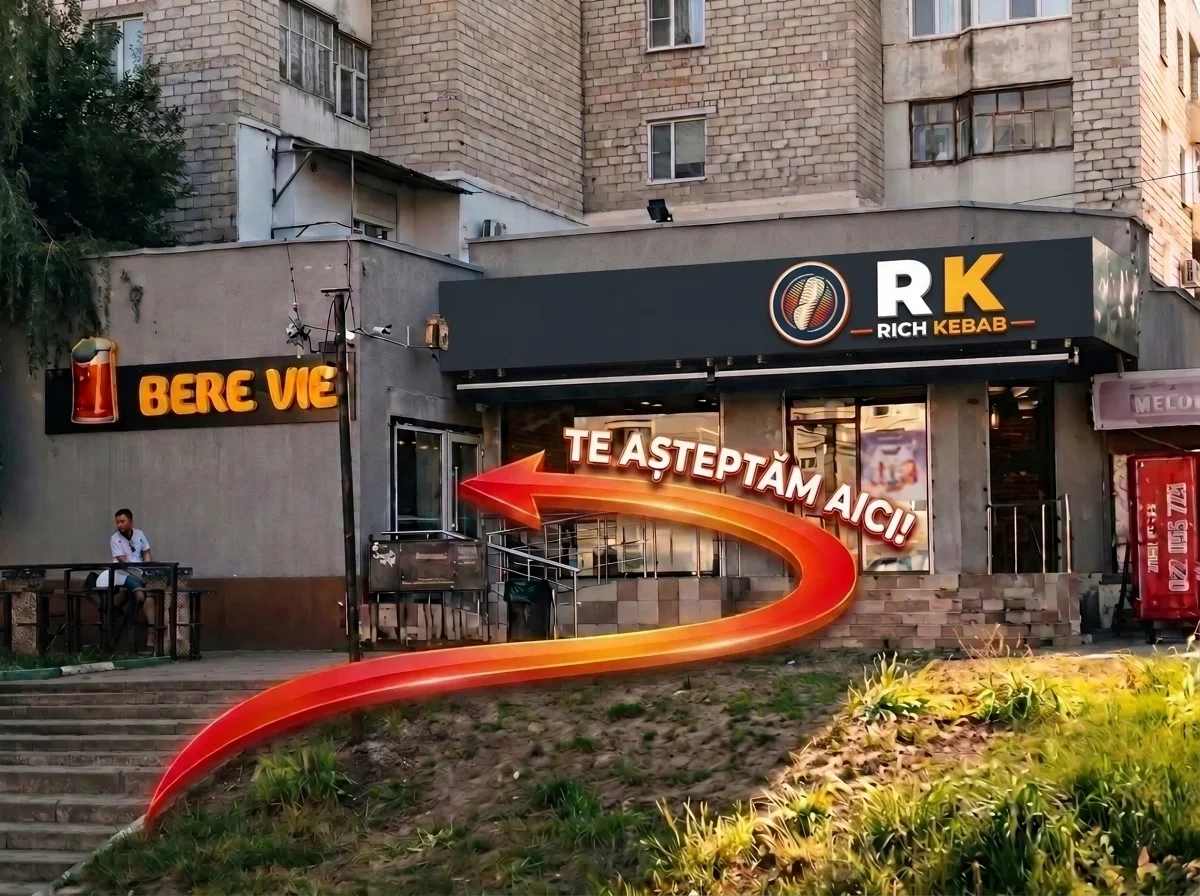
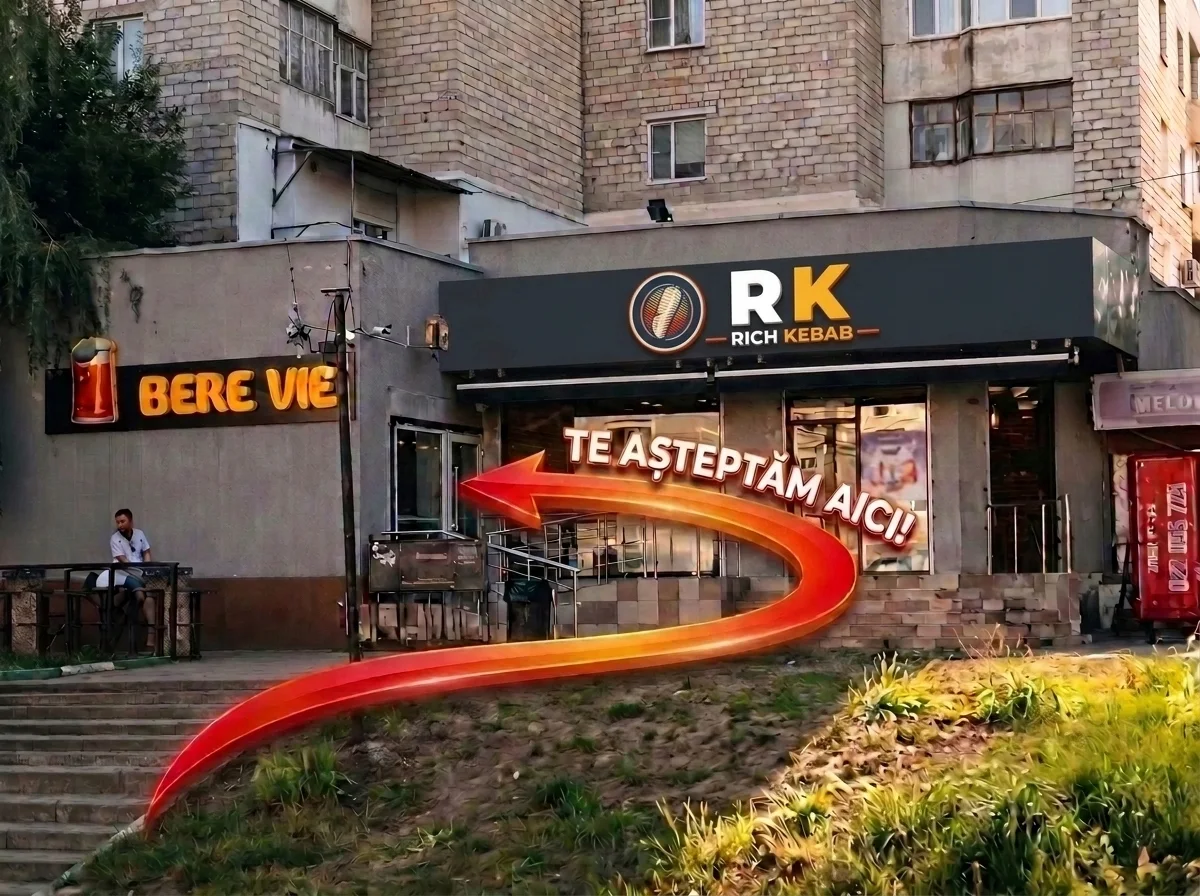
Fine-tune RK Rich Kebab sign alignment slightly left (?v=4)

Changed region(s): [[0.5242, 0.2812, 0.8633, 0.4062]]

diff --git a/ru/contact/index.html b/ru/contact/index.html
@@ -15,7 +15,7 @@
 
 <section class="section container contact-locs" aria-label="Два магазина в Кишинёве"><div class="contact-locations">
 <article class="contact-location"><div><p class="eyebrow small">01 / БОТАНИКА</p><h3>Куза Водэ 1/4</h3><p>Улица Куза Водэ 1/4, сектор Ботаника, Кишинёв, Республика Молдова.</p><p class="detail-small">Режим работы: ежедневно, 10:00–22:00.</p></div><div class="contact-actions"><a class="btn btn-outline" href="https://maps.app.goo.gl/LXgaJ6NnCcbJGiqSA?g_st=iw" target="_blank" rel="noopener noreferrer">Открыть карту<span aria-hidden="true">↗</span></a><a class="text-link" href="../locatii/#botanica">Подробнее →</a></div></article>
-<article class="contact-location"><div><p class="eyebrow small">02 / БУЮКАНЫ</p><h3>Алба Юлия 23</h3><p>Улица Алба Юлия 23, сектор Буюканы, Кишинёв, Республика Молдова.</p><p class="detail-small">Точный режим работы уточняйте в магазине.</p></div><div class="contact-actions"><a class="btn btn-outline" href="https://maps.app.goo.gl/xZLqAA5DeK2Dw2kd8?g_st=iw" target="_blank" rel="noopener noreferrer">Открыть карту<span aria-hidden="true">↗</span></a><a class="text-link" href="../locatii/#buiucani">Подробнее →</a></div></article></div></section><section class="container contact-photo"><img src="../../assets/images/find-us-arrow-760.webp?v=3" srcset="../../assets/images/find-us-arrow-760.webp?v=3 760w, ../../assets/images/find-us-arrow-1600.webp?v=3 1600w" sizes="(max-width: 700px) 100vw, 50vw" alt="Ориентир ко входу в пивной магазин: стрелка и надпись «Ждём вас здесь»" loading="eager" decoding="async" fetchpriority="high"><p class="image-caption">Ориентир — вывеска «Bere Vie» на фото.</p></section>
+<article class="contact-location"><div><p class="eyebrow small">02 / БУЮКАНЫ</p><h3>Алба Юлия 23</h3><p>Улица Алба Юлия 23, сектор Буюканы, Кишинёв, Республика Молдова.</p><p class="detail-small">Точный режим работы уточняйте в магазине.</p></div><div class="contact-actions"><a class="btn btn-outline" href="https://maps.app.goo.gl/xZLqAA5DeK2Dw2kd8?g_st=iw" target="_blank" rel="noopener noreferrer">Открыть карту<span aria-hidden="true">↗</span></a><a class="text-link" href="../locatii/#buiucani">Подробнее →</a></div></article></div></section><section class="container contact-photo"><img src="../../assets/images/find-us-arrow-760.webp?v=4" srcset="../../assets/images/find-us-arrow-760.webp?v=4 760w, ../../assets/images/find-us-arrow-1600.webp?v=4 1600w" sizes="(max-width: 700px) 100vw, 50vw" alt="Ориентир ко входу в пивной магазин: стрелка и надпись «Ждём вас здесь»" loading="eager" decoding="async" fetchpriority="high"><p class="image-caption">Ориентир — вывеска «Bere Vie» на фото.</p></section>
 <section class="contact-connect"><div class="container contact-connect-grid"><div><p class="eyebrow">ЕСТЬ ВОПРОС?</p><h2>Напишите.<br><em>Позвоните.</em></h2><p>Подскажем, какие сорта и закуски есть в наличии, сколько они стоят и как сделать заказ.</p></div><div class="contact-methods"><a href="tel:+37369482293"><span>ТЕЛЕФОН / ЗАКАЗЫ</span><strong>+373 69 482 293</strong><b aria-hidden="true">↗</b></a><a href="https://www.instagram.com/gym_beer90/" target="_blank" rel="noopener noreferrer"><span>INSTAGRAM / СООБЩЕНИЯ</span><strong>@gym_beer90</strong><b aria-hidden="true">↗</b></a></div></div></section></main><footer class="site-footer"><div class="container footer-top">
  <div class="footer-intro"><a class="brand brand-custom brand-footer" href="../index.html" aria-label="GYM BEER — главная страница"><img class="brand-image" src="../../assets/brand/gym-beer-horizontal.webp" width="190" height="56" alt="GYM BEER — Bere Vie" loading="lazy" decoding="async"></a><p>Хорошее пиво. Закуски под стать.<br>На Ботанике и Буюканах, Кишинёв.</p></div>
  <div class="footer-col"><h2>Разделы</h2><a href="../meniu/">Меню</a><a href="../galerie/">Фотогалерея</a><a href="../contact/">Контакты</a></div>

diff --git a/contact/index.html b/contact/index.html
@@ -15,7 +15,7 @@
 
 <section class="section container contact-locs" aria-label="Două locații în Chișinău"><div class="contact-locations">
 <article class="contact-location"><div><p class="eyebrow small">01 / BOTANICA</p><h3>Cuza Vodă 1/4</h3><p>Strada Cuza Vodă 1/4, sector Botanica, Chișinău, Republica Moldova.</p><p class="detail-small">Program publicat: zilnic, 10:00–22:00.</p></div><div class="contact-actions"><a class="btn btn-outline" href="https://maps.app.goo.gl/LXgaJ6NnCcbJGiqSA?g_st=iw" target="_blank" rel="noopener noreferrer">Deschide harta<span aria-hidden="true">↗</span></a><a class="text-link" href="../locatii/#botanica">Detalii locație →</a></div></article>
-<article class="contact-location"><div><p class="eyebrow small">02 / BUIUCANI</p><h3>Alba Iulia 23</h3><p>Strada Alba Iulia 23, sector Buiucani, Chișinău, Republica Moldova.</p><p class="detail-small">Programul exact se confirmă direct cu magazinul.</p></div><div class="contact-actions"><a class="btn btn-outline" href="https://maps.app.goo.gl/xZLqAA5DeK2Dw2kd8?g_st=iw" target="_blank" rel="noopener noreferrer">Deschide harta<span aria-hidden="true">↗</span></a><a class="text-link" href="../locatii/#buiucani">Detalii locație →</a></div></article></div></section><section class="container contact-photo"><img src="../assets/images/find-us-arrow-760.webp?v=3" srcset="../assets/images/find-us-arrow-760.webp?v=3 760w, ../assets/images/find-us-arrow-1600.webp?v=3 1600w" sizes="(max-width: 700px) 100vw, 50vw" alt="Imagine de orientare spre intrarea magazinului de bere, cu săgeată și textul Te așteptăm aici" loading="eager" decoding="async" fetchpriority="high"><p class="image-caption">Foto de orientare — urmează indicatorul „Bere Vie” din imagine.</p></section>
+<article class="contact-location"><div><p class="eyebrow small">02 / BUIUCANI</p><h3>Alba Iulia 23</h3><p>Strada Alba Iulia 23, sector Buiucani, Chișinău, Republica Moldova.</p><p class="detail-small">Programul exact se confirmă direct cu magazinul.</p></div><div class="contact-actions"><a class="btn btn-outline" href="https://maps.app.goo.gl/xZLqAA5DeK2Dw2kd8?g_st=iw" target="_blank" rel="noopener noreferrer">Deschide harta<span aria-hidden="true">↗</span></a><a class="text-link" href="../locatii/#buiucani">Detalii locație →</a></div></article></div></section><section class="container contact-photo"><img src="../assets/images/find-us-arrow-760.webp?v=4" srcset="../assets/images/find-us-arrow-760.webp?v=4 760w, ../assets/images/find-us-arrow-1600.webp?v=4 1600w" sizes="(max-width: 700px) 100vw, 50vw" alt="Imagine de orientare spre intrarea magazinului de bere, cu săgeată și textul Te așteptăm aici" loading="eager" decoding="async" fetchpriority="high"><p class="image-caption">Foto de orientare — urmează indicatorul „Bere Vie” din imagine.</p></section>
 <section class="contact-connect"><div class="container contact-connect-grid"><div><p class="eyebrow">VREI SĂ ÎNTREBI CEVA?</p><h2>Scrie-ne.<br><em>Sună-ne.</em></h2><p>Îți spunem ce sortimente și gustări sunt disponibile, cât costă și cum poți comanda.</p></div><div class="contact-methods"><a href="tel:+37369482293"><span>TELEFON / COMENZI</span><strong>+373 69 482 293</strong><b aria-hidden="true">↗</b></a><a href="https://www.instagram.com/gym_beer90/" target="_blank" rel="noopener noreferrer"><span>INSTAGRAM / MESAJE</span><strong>@gym_beer90</strong><b aria-hidden="true">↗</b></a></div></div></section></main><footer class="site-footer"><div class="container footer-top">
  <div class="footer-intro"><a class="brand brand-custom brand-footer" href="../index.html" aria-label="GYM BEER — pagina principală"><img class="brand-image" src="../assets/brand/gym-beer-horizontal.webp" width="190" height="56" alt="GYM BEER — Bere Vie" loading="lazy" decoding="async"></a><p>Bere bună. Gustări pe măsură.<br>În Botanica și Buiucani, Chișinău.</p></div>
  <div class="footer-col"><h2>Explorează</h2><a href="../meniu/">Meniu</a><a href="../galerie/">Galerie foto</a><a href="../contact/">Contact</a></div>

diff --git a/ru/locatii/index.html b/ru/locatii/index.html
@@ -39,7 +39,7 @@
 <div class="transport"><h3>Как добраться на общественном транспорте</h3>
 <p class="tr-stop">Ближайшая остановка: <strong>ул. Онисифор Гибу (~50 м)</strong></p>
 <div class="tr-row"><span class="tr-kind">Троллейбус</span><span class="tr-list"><span class="tr-num">3</span><span class="tr-num">21</span><span class="tr-num">22</span></span></div><div class="tr-row"><span class="tr-kind">Автобус</span><span class="tr-list"><span class="tr-num">3</span><span class="tr-num">26</span></span></div><div class="tr-row"><span class="tr-kind">Маршрутка</span><span class="tr-list"><span class="tr-num">122</span><span class="tr-num">172</span></span></div></div>
-<figure class="loc-photo" data-photo="../../assets/images/find-us-arrow-1600.webp?v=3" data-caption="GYM BEER Буюканы"><img src="../../assets/images/find-us-arrow-760.webp?v=3" alt="GYM BEER Буюканы" loading="lazy" decoding="async"></figure>
+<figure class="loc-photo" data-photo="../../assets/images/find-us-arrow-1600.webp?v=4" data-caption="GYM BEER Буюканы"><img src="../../assets/images/find-us-arrow-760.webp?v=4" alt="GYM BEER Буюканы" loading="lazy" decoding="async"></figure>
 </div>
 <div class="loc-map"><iframe title="Карта GYM BEER Буюканы" src="https://www.google.com/maps/embed?origin=mfe&pb=!1m12!1m8!1m3!1d2719.2925939385027!2d28.7766553!3d47.0344875!3m2!1i1024!2i768!4f13.1!2m1!1sGYM+BEER,+Strada+Alba+Iulia+23,+Chi%C8%99in%C4%83u!6i17" referrerpolicy="no-referrer-when-downgrade" allowfullscreen></iframe></div>
 </section>

diff --git a/locatii/index.html b/locatii/index.html
@@ -39,7 +39,7 @@
 <div class="transport"><h3>Cum ajungi cu transportul public</h3>
 <p class="tr-stop">Cea mai apropiată stație: <strong>str. Onisifor Ghibu (~50 m)</strong></p>
 <div class="tr-row"><span class="tr-kind">Troleibuz</span><span class="tr-list"><span class="tr-num">3</span><span class="tr-num">21</span><span class="tr-num">22</span></span></div><div class="tr-row"><span class="tr-kind">Autobuz</span><span class="tr-list"><span class="tr-num">3</span><span class="tr-num">26</span></span></div><div class="tr-row"><span class="tr-kind">Rutieră</span><span class="tr-list"><span class="tr-num">122</span><span class="tr-num">172</span></span></div></div>
-<figure class="loc-photo" data-photo="../assets/images/find-us-arrow-1600.webp?v=3" data-caption="GYM BEER Buiucani"><img src="../assets/images/find-us-arrow-760.webp?v=3" alt="GYM BEER Buiucani" loading="lazy" decoding="async"></figure>
+<figure class="loc-photo" data-photo="../assets/images/find-us-arrow-1600.webp?v=4" data-caption="GYM BEER Buiucani"><img src="../assets/images/find-us-arrow-760.webp?v=4" alt="GYM BEER Buiucani" loading="lazy" decoding="async"></figure>
 </div>
 <div class="loc-map"><iframe title="Harta GYM BEER Buiucani" src="https://www.google.com/maps/embed?origin=mfe&pb=!1m12!1m8!1m3!1d2719.2925939385027!2d28.7766553!3d47.0344875!3m2!1i1024!2i768!4f13.1!2m1!1sGYM+BEER,+Strada+Alba+Iulia+23,+Chi%C8%99in%C4%83u!6i17" referrerpolicy="no-referrer-when-downgrade" allowfullscreen></iframe></div>
 </section>
